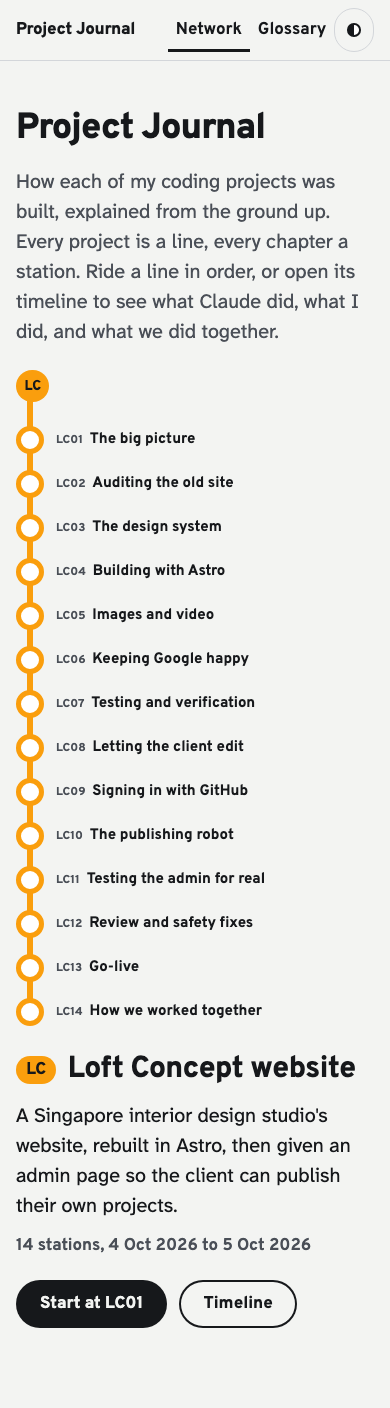
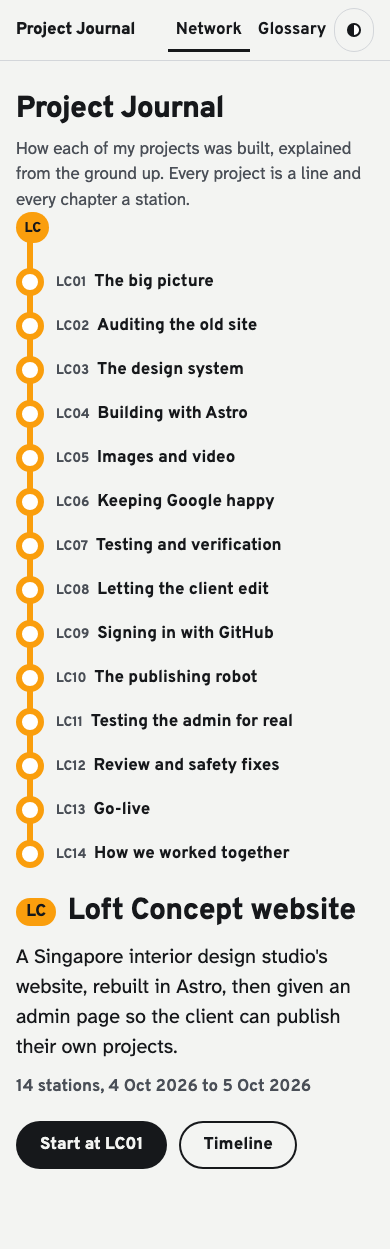
fix: finish-review batch (inline station pills, timetable column, sticky filters, larger network map, code wrap, ring markers)

diff --git a/src/styles/base.css b/src/styles/base.css
@@ -54,6 +54,10 @@ pre {
   line-height: 1.5;
   font-size: 0.875rem;
 }
+/* On phones, wrap long code lines so the plain-English comments stay readable */
+@media (max-width: 40rem) {
+  pre, pre code { white-space: pre-wrap; overflow-wrap: anywhere; }
+}
 
 img, svg { max-width: 100%; }
 
@@ -128,3 +132,17 @@ button.term:hover, button.term[aria-expanded='true'] { text-decoration-style: so
 .term-pop__analogy { margin-top: var(--s-2); color: var(--ink-soft); font-style: italic; }
 .term-pop__foot { display: flex; justify-content: space-between; align-items: center; margin-top: var(--s-3); font-family: var(--font-sign); font-weight: 700; }
 .term-pop__close { font: inherit; background: none; border: 1px solid var(--rule); border-radius: var(--radius-pill); padding: var(--s-1) var(--s-3); min-height: 36px; color: inherit; cursor: pointer; }
+
+/* Station or line code set inline with a heading, as on platform signs */
+.pill {
+  display: inline-block;
+  font-family: var(--font-sign);
+  font-weight: 800;
+  font-size: 0.5em;
+  line-height: 1;
+  letter-spacing: 0.01em;
+  padding: 0.38em 0.6em 0.3em;
+  border-radius: var(--radius-pill);
+  vertical-align: 0.38em;
+  margin-right: 0.2em;
+}

diff --git a/.impeccable/surfaces/src-pages-index-astro.md b/.impeccable/surfaces/src-pages-index-astro.md
@@ -11,7 +11,7 @@ Constraints: no generic docs template; learning aids (glossary popovers, map dia
 
 ## Direction contract
 THESIS: Every project is an MRT line and every chapter a station; who did the work runs as coloured lines down the timeline. Refuses the docs default of a grey chapter sidebar beside a centred article.
-OWN-WORLD: Cool map grey ground (#f3f4f2 light, #111316 dark platform-screen night). Uniform 6px lines at 0/45/90 degrees only; white stations with ink rings; interchange capsules with black outline; pill line-badges in DTL blue (Claude), EWL green (You), NEL purple (Others), CCL orange (Loft Concept line). Overpass signage type for codes and headings, Atkinson Hyperlegible Next for prose.
+OWN-WORLD: Cool map grey ground (#f3f4f2 light, #111316 dark platform-screen night). Uniform 6px lines at 0/45/90 degrees only; white stations with ink rings; interchange capsules with black outline; pill line-badges in DTL blue (Claude), EWL green (You), NEL purple (Others), CCL orange (Loft Concept line). Overpass signage type for codes and headings, Atkinson Hyperlegible Next for prose. Adaptation (recorded at finish review): stations are white with rings in their own line colour, because colour carries who did what on the timeline; ink rings mark only the current or "you are here" station.
 STORY: The reader sees the network, boards a line, rides chapter by chapter with a door strip showing where they are, and switches lines on the timeline to see what Claude, they, or both did.
 FIRST VIEWPORT: Home: the network diagram fills the upper viewport, Loft Concept's orange line running across with station ticks and codes LC01-LC14, the line badge and project name at its start, "You are here" ring on the last station read; below, the project list. Primary action: tapping the line or its name opens the line page.
 FORM: MRT network map, position 1 on the ordered list (IMPECCABLE'S PICK), seed key 578cefe1.
